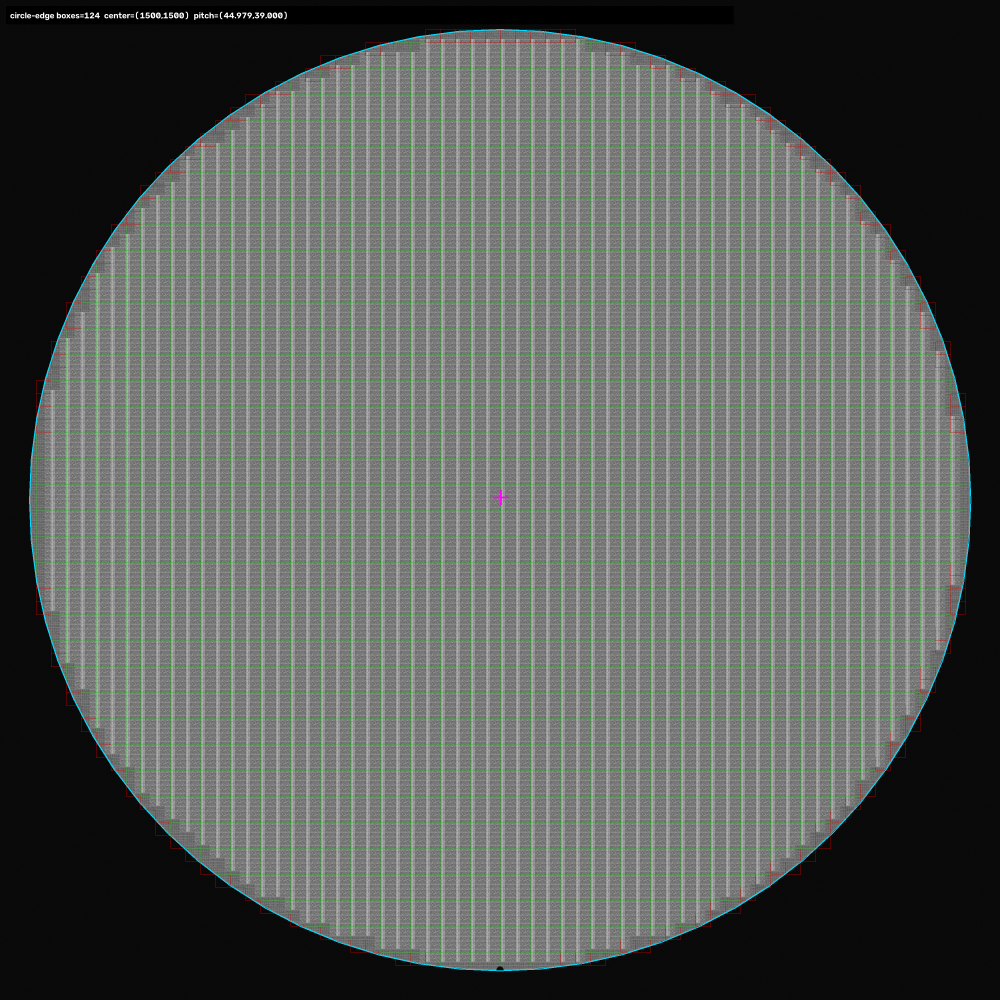
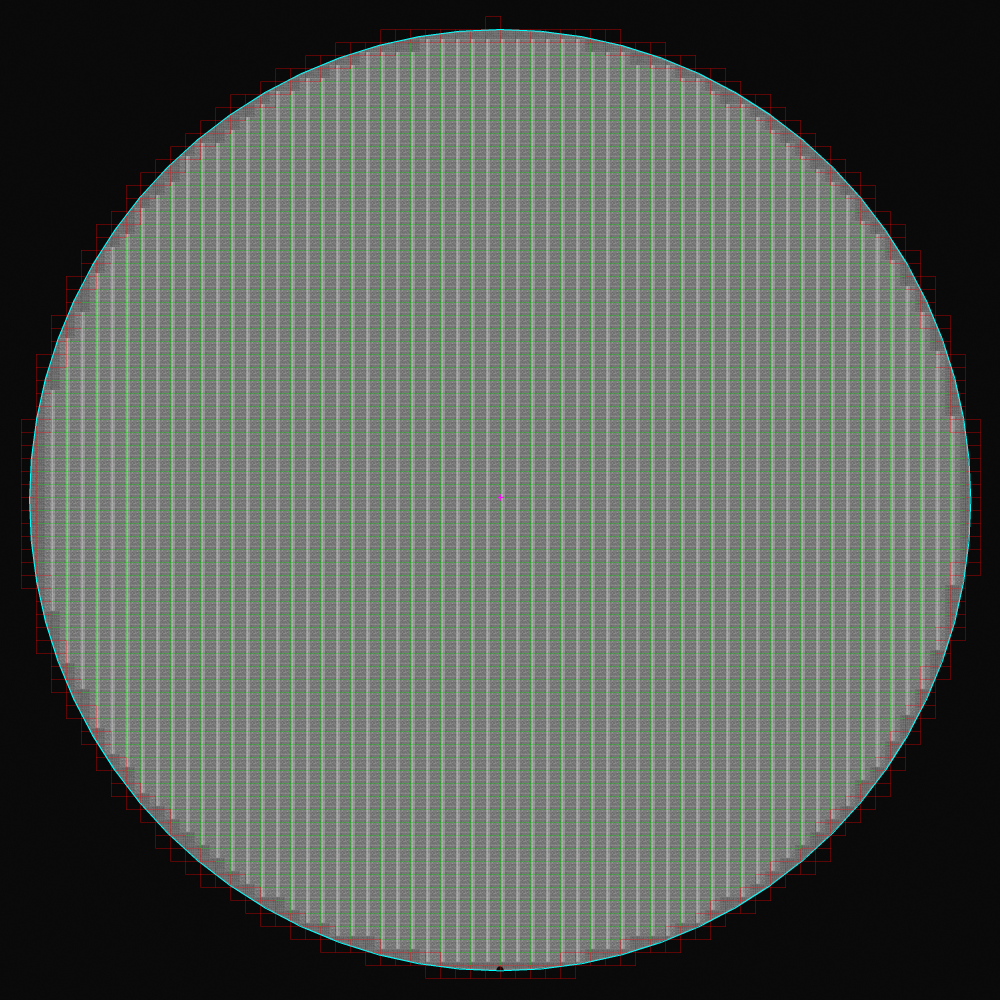
fix circle crossing edge die selection

diff --git a/USE_LATEST/use_gray_wafer_die_particle.py b/USE_LATEST/use_gray_wafer_die_particle.py
@@ -1044,14 +1044,32 @@ class WaferDieMap:
         }
 
 
-def _rect_crosses_circle(x1: int, y1: int, x2: int, y2: int,
-                         cx: int, cy: int, r: int) -> bool:
+def _rect_intersects_circle(x1: float, y1: float, x2: float, y2: float,
+                            cx: float, cy: float, r: float) -> bool:
+    """Return True when any portion of a die rectangle lies in the wafer disc."""
+    left, right = sorted((float(x1), float(x2)))
+    top, bottom = sorted((float(y1), float(y2)))
+    nearest_x = min(max(float(cx), left), right)
+    nearest_y = min(max(float(cy), top), bottom)
+    return (nearest_x - cx) ** 2 + (nearest_y - cy) ** 2 <= float(r) ** 2
+
+
+def _rect_crosses_circle(x1: float, y1: float, x2: float, y2: float,
+                         cx: float, cy: float, r: float) -> bool:
     """die rect 의 한 모서리라도 웨이퍼 원 밖이면 True (=정의①: 부분 die)."""
-    r2 = r * r
-    for (px, py) in ((x1, y1), (x2, y1), (x1, y2), (x2, y2)):
-        if (px - cx) ** 2 + (py - cy) ** 2 > r2:
-            return True
-    return False
+    left, right = sorted((float(x1), float(x2)))
+    top, bottom = sorted((float(y1), float(y2)))
+    farthest = max(math.hypot(px - cx, py - cy)
+                   for px, py in ((left, top), (right, top),
+                                  (left, bottom), (right, bottom)))
+    if left <= cx <= right and top <= cy <= bottom:
+        # The circle center lies in this box, so use the nearest box boundary.
+        nearest = min(cx - left, right - cx, cy - top, bottom - cy)
+    else:
+        nearest_x = min(max(cx, left), right)
+        nearest_y = min(max(cy, top), bottom)
+        nearest = math.hypot(nearest_x - cx, nearest_y - cy)
+    return nearest <= float(r) <= farthest
 
 
 def _rect_circle_clearance(x1: int, y1: int, x2: int, y2: int,
@@ -2421,7 +2439,6 @@ def build_die_map(image: Union[str, Path, np.ndarray],
     max_iy = int(np.ceil(wafer_r / pitch_y)) + 2
     margin = edge_margin if include_edge else 0.98
     r_lim = max(0.0, wafer_r * margin - float(edge_clip_margin_px))
-    r_lim_sq = r_lim ** 2
 
     dies: List[Dict[str, Any]] = []
     dies_by_index: Dict[Tuple[int, int], Dict[str, Any]] = {}
@@ -2441,16 +2458,17 @@ def build_die_map(image: Union[str, Path, np.ndarray],
             cx_d = int(round((x_a + x_b) / 2.0))
             cy_d = int(round((y_a + y_b) / 2.0))
 
-            dx = cx_d - wafer_cx
-            dy = cy_d - wafer_cy
-            if dx * dx + dy * dy > r_lim_sq:     # 웨이퍼 원 밖 격자 위치 -> die 없음
+            # Do not discard a real edge die merely because its center falls
+            # outside the wafer circle.  The rectangle itself can still cross it.
+            if not _rect_intersects_circle(
+                    x_a, y_a, x_b, y_b, wafer_cx, wafer_cy, r_lim):
                 continue
 
             # 중심만 원 안에 있어도 사각형 일부가 wafer 밖으로 나갈 수 있다.
             # 제품 검사 map에서는 그런 partial die를 제거한다. 단, wafer ring particle 함수는
             # partial die 내부도 제외해야 하므로 별도 private map에서 이 옵션을 False로 쓴다.
             if clip_partial_edge and _rect_crosses_circle(
-                    x_a, y_a, x_b, y_b, wafer_cx, wafer_cy, int(round(r_lim))):
+                    x_a, y_a, x_b, y_b, wafer_cx, wafer_cy, r_lim):
                 continue
 
             cell_w = x_b - x_a
@@ -2472,7 +2490,8 @@ def build_die_map(image: Union[str, Path, np.ndarray],
                 "crop_rect_px": crop_rect,
                 "real_coord":  (rx, ry),
                 # 세 edge 기준을 모두 저장. is_edge는 아래서 edge_mode에 따라 선택한다.
-                "is_edge_partial": edge_distance_px < 0.0,
+                "is_edge_partial": _rect_crosses_circle(
+                    x_a, y_a, x_b, y_b, wafer_cx, wafer_cy, r_lim),
                 "is_edge_ring": False,   # 8방향 이웃 확정 후 채움
                 "edge_distance_px": round(edge_distance_px, 2),
                 "is_edge_margin": bool(0.0 <= edge_distance_px <= edge_index_margin_px),
@@ -2639,7 +2658,9 @@ def locate_die(die_map: WaferDieMap,
         edge_distance_px = _rect_circle_clearance(
             x_a, y_a, x_b, y_b,
             die_map.wafer_cx, die_map.wafer_cy, edge_limit_r)
-        is_edge_partial = edge_distance_px < 0.0
+        is_edge_partial = _rect_crosses_circle(
+            x1, y1, x2, y2, die_map.wafer_cx, die_map.wafer_cy,
+            edge_limit_r)
         edge_index_margin_px = int(getattr(die_map, "edge_index_margin_px", 0))
         is_edge_margin = bool(0.0 <= edge_distance_px <= edge_index_margin_px)
         is_edge_ring = any(

diff --git a/USE_LATEST/use_manual_grid_wafer_map.py b/USE_LATEST/use_manual_grid_wafer_map.py
@@ -109,6 +109,37 @@ def _rect_circle_clearance(x1: float, y1: float, x2: float, y2: float,
     return float(radius - farthest)
 
 
+def _rect_intersects_circle(x1: float, y1: float, x2: float, y2: float,
+                            cx: float, cy: float, radius: float) -> bool:
+    """Whether any portion of an axis-aligned die rectangle lies in the wafer."""
+    left, right = sorted((float(x1), float(x2)))
+    top, bottom = sorted((float(y1), float(y2)))
+    nearest_x = min(max(float(cx), left), right)
+    nearest_y = min(max(float(cy), top), bottom)
+    return (nearest_x - cx) ** 2 + (nearest_y - cy) ** 2 <= float(radius) ** 2
+
+
+def _rect_crosses_circle(x1: float, y1: float, x2: float, y2: float,
+                         cx: float, cy: float, radius: float) -> bool:
+    """Whether the wafer circle crosses the rectangle boundary.
+
+    It includes boxes whose centers sit outside the circle but whose area still
+    intersects it; those boxes are valid EDGE boxes.
+    """
+    left, right = sorted((float(x1), float(x2)))
+    top, bottom = sorted((float(y1), float(y2)))
+    farthest = max(math.hypot(x - cx, y - cy)
+                   for x, y in ((left, top), (right, top),
+                                (left, bottom), (right, bottom)))
+    if left <= cx <= right and top <= cy <= bottom:
+        nearest = min(cx - left, right - cx, cy - top, bottom - cy)
+    else:
+        nearest_x = min(max(cx, left), right)
+        nearest_y = min(max(cy, top), bottom)
+        nearest = math.hypot(nearest_x - cx, nearest_y - cy)
+    return nearest <= float(radius) <= farthest
+
+
 def _crop_rect(cx: float, cy: float, die_w: float, die_h: float,
                offset_x: float, offset_y: float,
                margin_x: float, margin_y: float) -> Tuple[int, int, int, int]:
@@ -310,11 +341,14 @@ def build_die_map(image: np.ndarray, corner_point: Tuple[float, float],
             left_f, right_f = x0 + ix * pitch_x, x0 + (ix + 1) * pitch_x
             top_f, bottom_f = y0 - (iy + 1) * pitch_y, y0 - iy * pitch_y
             center_x, center_y = (left_f + right_f) / 2.0, (top_f + bottom_f) / 2.0
-            if math.hypot(center_x - wcx, center_y - wcy) > center_limit_r:
+            # Keep true circle-crossing boxes even if their centers are outside.
+            if not _rect_intersects_circle(left_f, top_f, right_f, bottom_f,
+                                           wcx, wcy, center_limit_r):
                 continue
             clearance = _rect_circle_clearance(left_f, top_f, right_f, bottom_f,
                                                 wcx, wcy, center_limit_r)
-            if clip_partial_edge and clearance < 0.0:
+            if clip_partial_edge and _rect_crosses_circle(
+                    left_f, top_f, right_f, bottom_f, wcx, wcy, center_limit_r):
                 continue
             rect = (int(round(left_f)), int(round(top_f)), int(round(right_f)), int(round(bottom_f)))
             crop_rect = _crop_rect(center_x, center_y, pitch_x, pitch_y,
@@ -325,7 +359,8 @@ def build_die_map(image: np.ndarray, corner_point: Tuple[float, float],
                 "rect_px": rect,
                 "crop_rect_px": crop_rect,
                 "real_coord": ((center_x - wcx) / float(pixel_per_unit), (wcy - center_y) / float(pixel_per_unit)),
-                "is_edge_partial": bool(clearance < 0.0),
+                "is_edge_partial": _rect_crosses_circle(
+                    left_f, top_f, right_f, bottom_f, wcx, wcy, center_limit_r),
                 "is_edge_ring": False,
                 "edge_distance_px": round(clearance, 4),
                 "is_edge_margin": bool(0.0 <= clearance <= edge_index_margin_px),
@@ -401,7 +436,9 @@ def locate_die(die_map: WaferDieMap, point: Optional[Tuple[float, float]] = None
     entry = die_map.get_die(ix, iy)
     clearance = _rect_circle_clearance(left, top, right, bottom,
                                         die_map.wafer_cx, die_map.wafer_cy, die_map.edge_limit_r)
-    partial = bool(entry["is_edge_partial"]) if entry else bool(clearance < 0.0)
+    partial = (bool(entry["is_edge_partial"]) if entry else _rect_crosses_circle(
+        left, top, right, bottom, die_map.wafer_cx, die_map.wafer_cy,
+        die_map.edge_limit_r))
     ring = bool(entry["is_edge_ring"]) if entry else any(
         (ix + dx, iy + dy) not in die_map.dies_by_index
         for dx in (-1, 0, 1) for dy in (-1, 0, 1) if dx or dy)

diff --git a/TEST_3000_GRAY/generate_edge_crossing_validation.py b/TEST_3000_GRAY/generate_edge_crossing_validation.py
@@ -1,0 +1,108 @@
+"""Rebuild the 3000px TEST overlay and prove every circle-crossing EDGE box.
+
+The input JPEG remains outside the repository because it is too large for
+GitHub.  Only its 3000x3000 Gray derivative and these visual results are kept.
+"""
+
+from __future__ import annotations
+
+from pathlib import Path
+import sys
+
+import cv2
+import numpy as np
+
+
+REPO_ROOT = Path(__file__).resolve().parents[1]
+SOURCE_JPEG = Path("E:/mirero/Claude_V5") / "\uc6d0\ubcf8" / "Claude_V5" / "TEST" / "wafer_1.jpg"
+OUT_DIR = Path(__file__).resolve().parent
+
+sys.path.insert(0, str(REPO_ROOT))
+from USE_LATEST.use_gray_wafer_die_particle import build_die_map  # noqa: E402
+
+
+def _legacy_center_based_edge(die: dict, dm: object) -> bool:
+    """Reproduce the old bug: reject an edge box when its center is outside."""
+    x1, y1, x2, y2 = die["rect_px"]
+    cx, cy = die["center_px"]
+    center_inside = (cx - dm.wafer_cx) ** 2 + (cy - dm.wafer_cy) ** 2 <= dm.edge_limit_r ** 2
+    corner_outside = any(
+        (px - dm.wafer_cx) ** 2 + (py - dm.wafer_cy) ** 2 > dm.edge_limit_r ** 2
+        for px, py in ((x1, y1), (x2, y1), (x1, y2), (x2, y2))
+    )
+    return center_inside and corner_outside
+
+
+def _draw_circle_and_corner(canvas: np.ndarray, dm: object) -> None:
+    cv2.circle(canvas, (dm.wafer_cx, dm.wafer_cy), int(round(dm.edge_limit_r)), (255, 255, 0), 2)
+    x0, y0 = int(round(dm.x0)), int(round(dm.y0))
+    cv2.drawMarker(canvas, (x0, y0), (255, 0, 255), cv2.MARKER_CROSS, 18, 2)
+
+
+def _write_preview(path: Path, image: np.ndarray) -> None:
+    preview = cv2.resize(image, (1000, 1000), interpolation=cv2.INTER_AREA)
+    cv2.imwrite(str(path), preview)
+
+
+def main() -> None:
+    raw = cv2.imdecode(np.fromfile(str(SOURCE_JPEG), np.uint8), cv2.IMREAD_COLOR)
+    if raw is None:
+        raise FileNotFoundError(f"Cannot decode source image: {SOURCE_JPEG}")
+    gray = cv2.resize(cv2.cvtColor(raw, cv2.COLOR_BGR2GRAY), (3000, 3000), interpolation=cv2.INTER_AREA)
+    cv2.imwrite(str(OUT_DIR / "wafer_1_gray_3000.png"), gray)
+    _write_preview(OUT_DIR / "wafer_1_gray_preview.png", cv2.cvtColor(gray, cv2.COLOR_GRAY2BGR))
+
+    dm = build_die_map(
+        gray,
+        grid_method="cross",
+        min_pitch=30,
+        max_pitch=70,
+        notch_align=False,
+        clip_partial_edge=False,
+        edge_clip_margin_px=0,
+        edge_mode="circle",
+    )
+
+    full = cv2.cvtColor(gray, cv2.COLOR_GRAY2BGR)
+    diagnostic = full.copy()
+    new_edges = [die for die in dm.dies if die["is_edge_partial"]]
+    old_indices = set()
+    for die in dm.dies:
+        x1, y1, x2, y2 = die["rect_px"]
+        cv2.rectangle(full, (x1, y1), (x2, y2), (0, 220, 0), 1)
+    for die in new_edges:
+        x1, y1, x2, y2 = die["rect_px"]
+        if _legacy_center_based_edge(die, dm):
+            old_indices.add(die["index"])
+        cv2.rectangle(full, (x1, y1), (x2, y2), (0, 0, 255), 1)
+
+    # Yellow: boxes the former center-based code found. Red: actual EDGE boxes
+    # it missed because their centers are outside the wafer circle.
+    missing = []
+    for die in new_edges:
+        x1, y1, x2, y2 = die["rect_px"]
+        color = (0, 255, 255) if die["index"] in old_indices else (0, 0, 255)
+        cv2.rectangle(diagnostic, (x1, y1), (x2, y2), color, 1)
+        if die["index"] not in old_indices:
+            missing.append(die)
+
+    _draw_circle_and_corner(full, dm)
+    _draw_circle_and_corner(diagnostic, dm)
+    cv2.imwrite(str(OUT_DIR / "wafer_1_cross_overlay_3000.png"), full)
+    cv2.imwrite(str(OUT_DIR / "wafer_1_edge_gap_diagnostic_3000.png"), diagnostic)
+    _write_preview(OUT_DIR / "wafer_1_cross_overlay_preview.png", full)
+    _write_preview(OUT_DIR / "wafer_1_edge_gap_diagnostic_preview.png", diagnostic)
+
+    print({
+        "wafer": (dm.wafer_cx, dm.wafer_cy, dm.wafer_r),
+        "pitch": (round(dm.pitch_x, 3), round(dm.pitch_y, 3)),
+        "corner": (dm.x0, dm.y0),
+        "dies_including_partial": len(dm.dies),
+        "edge_circle_crossing": len(new_edges),
+        "legacy_center_based_edge": len(old_indices),
+        "previously_missing_edge": len(missing),
+    })
+
+
+if __name__ == "__main__":
+    main()

diff --git a/TEST_3000_GRAY/validate_edge_circle_geometry.py b/TEST_3000_GRAY/validate_edge_circle_geometry.py
@@ -1,0 +1,33 @@
+"""Small deterministic checks for the circle-crossing EDGE definition."""
+
+from pathlib import Path
+import sys
+
+ROOT = Path(__file__).resolve().parents[1]
+sys.path.insert(0, str(ROOT))
+
+from USE_LATEST.use_gray_wafer_die_particle import _rect_crosses_circle as gray_crosses
+from USE_LATEST.use_manual_grid_wafer_map import _rect_crosses_circle as manual_crosses
+
+
+CASES = [
+    # name, rectangle, expected circle-boundary crossing
+    ("inside", (45, 45, 55, 55), False),
+    ("cross_center_inside", (95, 45, 105, 55), True),
+    # This is the regression case: it crosses, even though its box center is outside.
+    ("cross_center_outside", (99, 45, 109, 55), True),
+    ("outside", (111, 45, 121, 55), False),
+]
+
+
+def main() -> None:
+    for name, rect, expected in CASES:
+        gray_actual = gray_crosses(*rect, 50, 50, 50)
+        manual_actual = manual_crosses(*rect, 50, 50, 50)
+        assert gray_actual == expected, (name, gray_actual, expected)
+        assert manual_actual == expected, (name, manual_actual, expected)
+    print(f"passed {len(CASES)} circle/rectangle EDGE geometry cases")
+
+
+if __name__ == "__main__":
+    main()

diff --git a/TEST_3000_GRAY/README_KO.md b/TEST_3000_GRAY/README_KO.md
@@ -1,17 +1,19 @@
-# TEST 3000x3000 Gray 변환 및 Cross Grid 결과
+# TEST 3000x3000 Gray: 원을 통과하는 EDGE 검증
 
-입력은 `E:\mirero\Claude_V5\원본\Claude_V5\TEST\wafer_1.jpg` 한 장만 사용했다. 원본 JPEG는 약 52MB이므로 GitHub에는 올리지 않고, `INTER_AREA` 방식으로 만든 3000x3000 1채널 Gray 결과만 포함한다.
+입력은 `E:\mirero\Claude_V5\원본\Claude_V5\TEST\wafer_1.jpg` 한 장만 사용했다. 10000x10000 BGR JPEG 원본은 약 52MB이므로 GitHub에는 올리지 않고, `INTER_AREA`로 축소한 3000x3000 1채널 Gray 결과와 검증 자료만 포함했다.
 
-## 포함 파일
+## 결과 파일
 
 | 파일 | 설명 |
 | --- | --- |
-| `wafer_1_gray_3000.png` | 3000x3000 1채널 Gray 테스트 이미지 |
-| `wafer_1_cross_overlay_3000.png` | 검출된 grid/edge/wafer circle/corner overlay |
-| `wafer_1_gray_preview.png` | GitHub에서 빠르게 확인할 수 있는 1000px Gray 미리보기 |
-| `wafer_1_cross_overlay_preview.png` | 1000px overlay 미리보기 |
+| `wafer_1_gray_3000.png` | 3000x3000 1채널 Gray 입력 |
+| `wafer_1_cross_overlay_3000.png` | 전체 Die map. 일반 Die는 초록색, 실제 EDGE는 빨간색 |
+| `wafer_1_edge_gap_diagnostic_3000.png` | EDGE 누락 원인을 확인하는 진단 이미지 |
+| `*_preview.png` | GitHub에서 빠르게 보는 1000px 미리보기 |
+| `generate_edge_crossing_validation.py` | 위 결과를 원본 TEST JPEG에서 다시 생성하는 스크립트 |
+| `validate_edge_circle_geometry.py` | 원-사각형 EDGE 교차 회귀 테스트 |
 
-## 적용 파라미터
+## 적용 설정
 
 ```python
 dm = build_die_map(
@@ -26,23 +28,42 @@ dm = build_die_map(
 )
 ```
 
-## 판정 결과
+## 측정 결과
 
 | 항목 | 결과 |
 | --- | --- |
-| 입력 | 10000x10000 BGR JPEG -> 3000x3000 Gray PNG |
 | wafer center | `(1500, 1500)` px |
 | wafer radius | `1412` px |
-| `pitch_x` | `44.979` px |
-| `pitch_y` | `39.000` px |
+| `pitch_x`, `pitch_y` | `44.979`, `39.000` px |
 | corner `(x0, y0)` | `(1502, 1492)` px |
-| map Die 수 | `3564` (원에 걸치는 partial Die 포함) |
-| EDGE Die 수 | `124` |
+| partial Die 포함 map Die 수 | `3711` |
+| 실제 원-사각형 교차 EDGE | `271` |
+| 기존 중심점 방식이 찾은 EDGE | `124` |
+| 기존 방식 누락 EDGE | `147` |
 
 ![3000px Gray preview](wafer_1_gray_preview.png)
 
-![Cross grid overlay preview](wafer_1_cross_overlay_preview.png)
+![전체 Die map overlay](wafer_1_cross_overlay_preview.png)
 
-초록색은 wafer 원 안에 완전히 포함된 일반 Die, 빨간색은 **wafer 원을 한 모서리라도 넘는 모든 box**다. 즉 이 결과에서 EDGE는 최외곽 ring이 아니라 `is_edge_partial=True`인 circle-crossing Die만 의미한다. 하늘색은 wafer circle, 자홍색 십자는 선택한 central grid corner다.
+![EDGE 누락 진단](wafer_1_edge_gap_diagnostic_preview.png)
 
-실사용에서도 같은 EDGE 정의가 필요하면 `clip_partial_edge=False`, `edge_clip_margin_px=0`, `edge_mode="circle"`을 함께 사용한다. partial Die를 결과 map에서 제거해야 하는 검사 흐름에서는 `clip_partial_edge=True`로 바꾸되, 그 경우 partial EDGE box 자체는 `dm.dies`에서 제외된다.
+## 수정한 판정 로직
+
+기존 방식은 Die **중심점이 원 안에 있는지** 먼저 검사했다. 그래서 사각형 일부는 wafer 안에 있지만 중심점이 원 밖인 EDGE Die가 후보에서 제외됐다.
+
+현재 방식은 다음 순서로 판단한다.
+
+1. 사각형과 wafer 원판이 겹치는 모든 Die를 map 후보로 남긴다.
+2. 원 둘레가 사각형의 네 변 중 하나를 통과하면 `is_edge_partial=True`로 표시한다.
+3. `clip_partial_edge=True`이면 이 실제 EDGE Die를 map에서 제거하고, `False`이면 map에 남긴다.
+
+진단 이미지의 색상은 다음과 같다.
+
+| 색상 | 의미 |
+| --- | --- |
+| 하늘색 | wafer circle |
+| 노란색 | 기존 중심점 방식도 찾은 EDGE |
+| 빨간색 | 기존 방식이 누락한 실제 EDGE. 중심은 원 밖이지만 box는 원을 통과함 |
+| 자홍색 십자 | 선택된 grid corner |
+
+따라서 `edge_mode="circle"`에서 반환되는 `dm.edge_indices`와 각 Die의 `is_edge_partial`은 원을 실제로 통과하는 모든 box의 인덱스다. `edge_mode="ring"`은 이 정의와 다르며, 단순히 현재 map에서 이웃 Die가 비어 있는 가장자리 줄을 의미한다.
